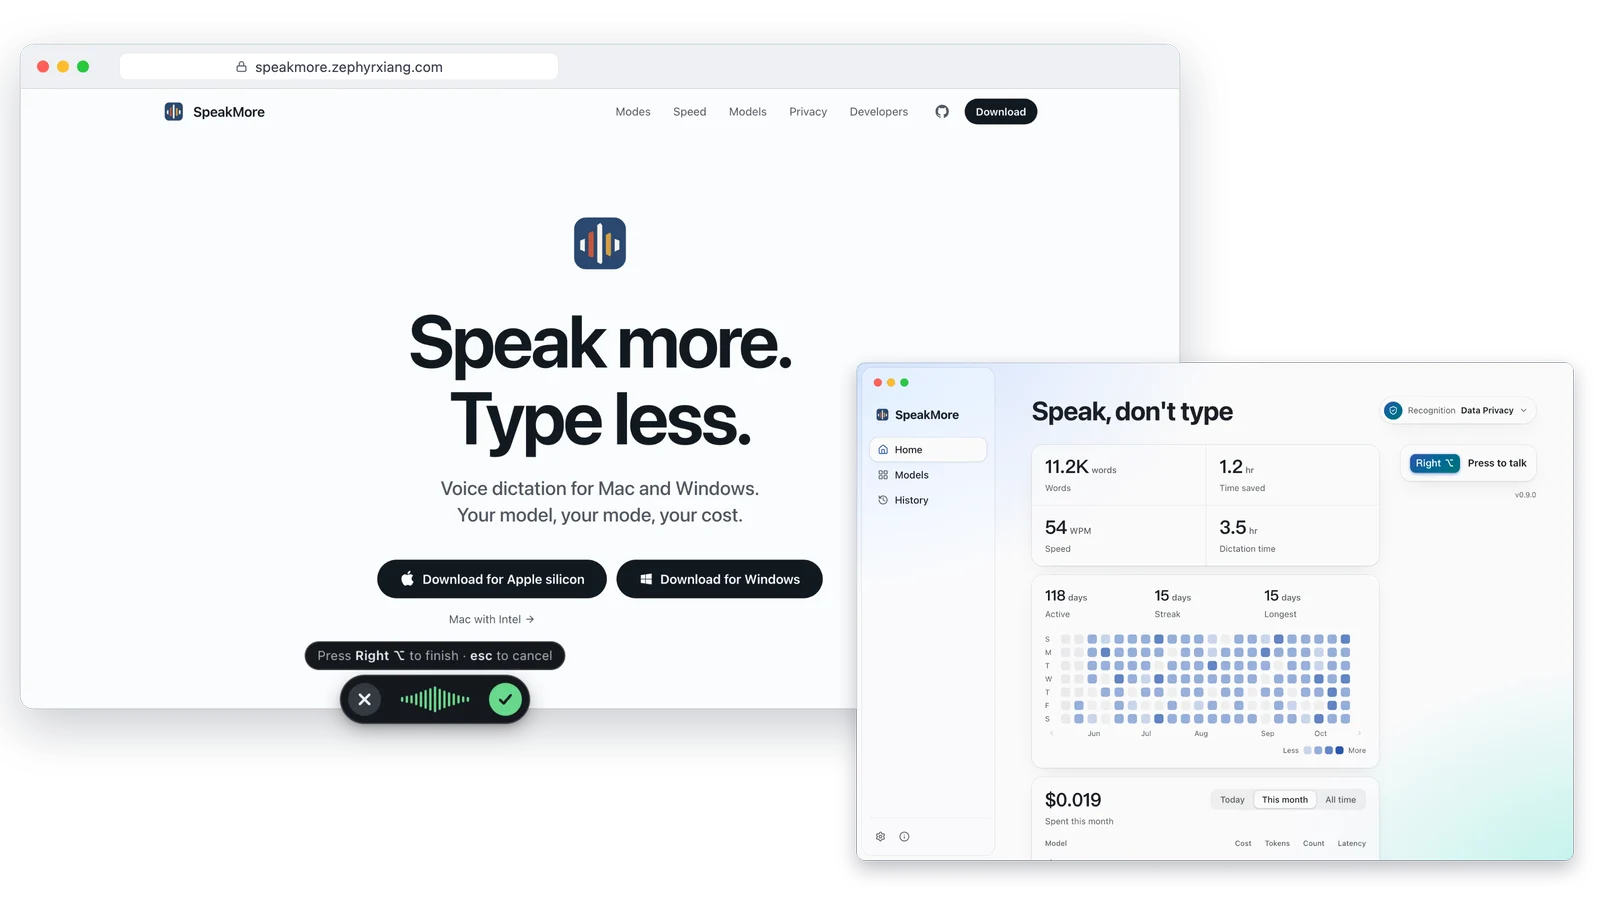
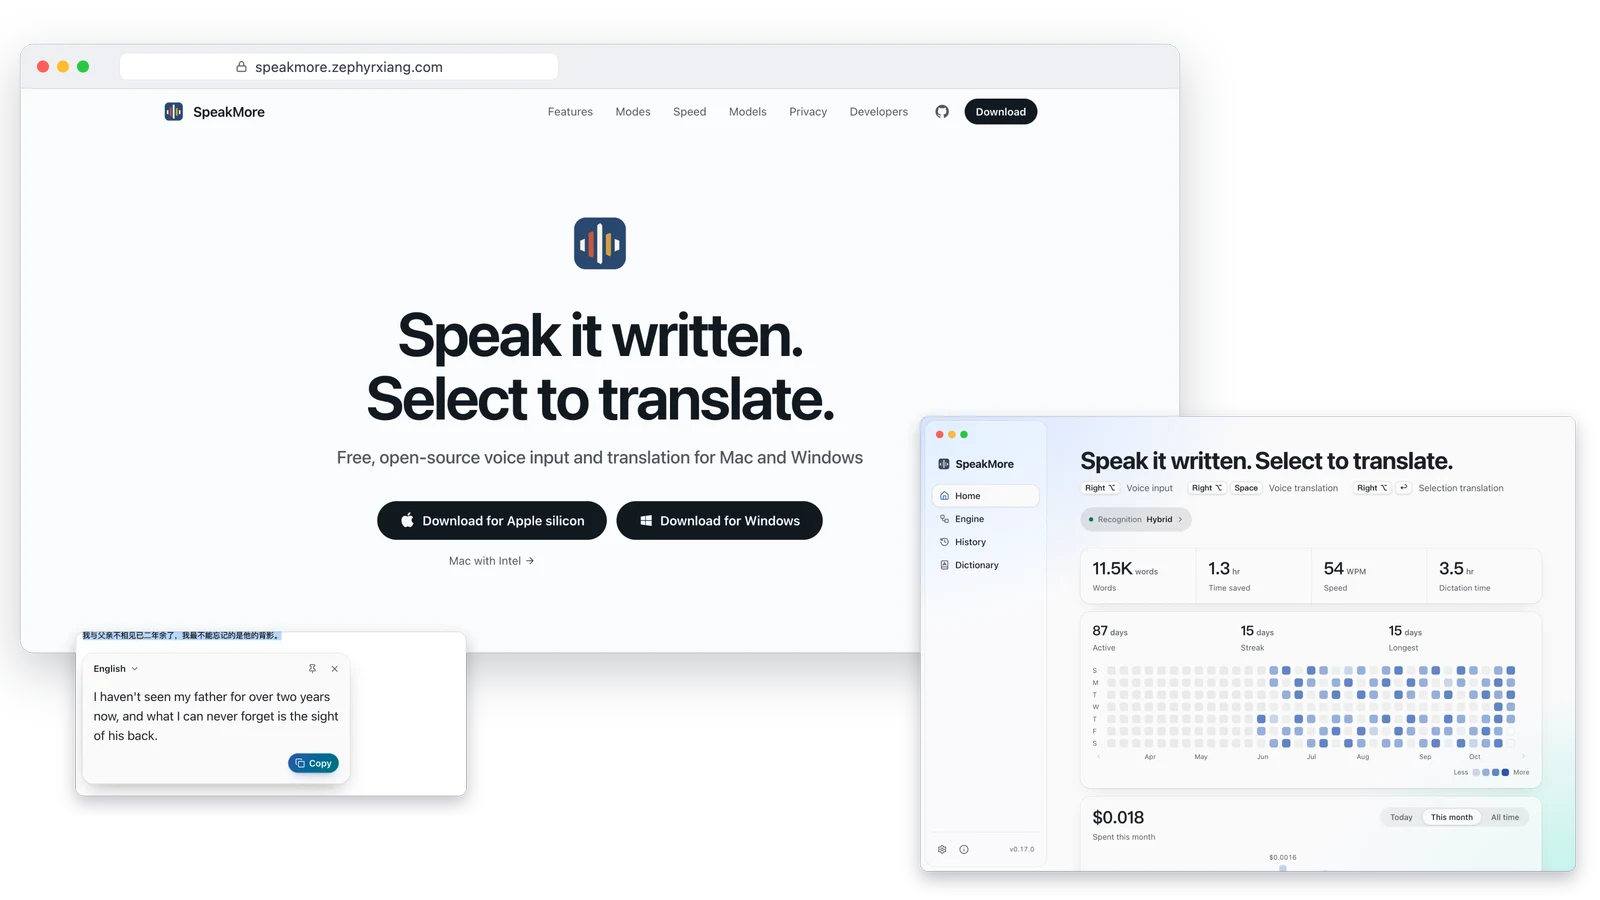
docs: SpeakMore 0.17 three-in-one — new tagline, features, showcase, 580+ downloads

diff --git a/README.md b/README.md
@@ -5,7 +5,7 @@
 
 - <img src="assets/icons/graduation-cap.svg" width="18" height="18" align="absmiddle" alt=""> **Tianjin University** — Artificial Intelligence · direct-admission MS
 - <img src="assets/icons/microscope.svg" width="18" height="18" align="absmiddle" alt=""> **Research** — Multi-Agent Systems · LLM Orchestration · Social Emergence
-- <img src="assets/icons/zap.svg" width="18" height="18" align="absmiddle" alt=""> **Tools** — Voice Dictation · Agent-Made Video · Automated Research
+- <img src="assets/icons/zap.svg" width="18" height="18" align="absmiddle" alt=""> **Tools** — Voice Input & Translation · Agent-Made Video · Automated Research
 - <img src="assets/icons/terminal.svg" width="18" height="18" align="absmiddle" alt=""> **Power User** — <img src="assets/icons/claude-code.svg" width="22" height="14" align="absmiddle" alt=""> Claude Code · <img src="assets/icons/codex.svg" width="18" height="18" align="absmiddle" alt=""> Codex
 - <img src="assets/icons/briefcase.svg" width="18" height="18" align="absmiddle" alt=""> **Technical Advisor** @ Turing Synergy — iOS App Development · Multi-Product Builder · Cutting-Edge Collaboration Models
 - <img src="assets/icons/map-pin.svg" width="18" height="18" align="absmiddle" alt=""> **Based in** Tianjin, China · UTC+8
@@ -20,7 +20,7 @@
 <tr>
 <td width="50%" valign="top">
 
-<a href="https://speakmore.zephyrxiang.com"><img src="assets/speakmore-showcase.webp" width="100%" alt="SpeakMore website, with the Mac app and the dictation bar in front"></a>
+<a href="https://speakmore.zephyrxiang.com"><img src="assets/speakmore-showcase.webp" width="100%" alt="SpeakMore website, with the Mac app and a selection-translation card in front"></a>
 
 <h3><img src="assets/icons/speakmore.svg" width="22" height="22" align="absmiddle" alt=""> <a href="https://github.com/zephyr4123/speakmore">SpeakMore</a></h3>
 
@@ -28,14 +28,15 @@
 
 [![stars](https://img.shields.io/github/stars/zephyr4123/speakmore?style=flat-square&logo=github&logoColor=white&label=stars&color=EAB308)](https://github.com/zephyr4123/speakmore/stargazers)
 [![forks](https://img.shields.io/github/forks/zephyr4123/speakmore?style=flat-square&logo=github&logoColor=white&label=forks&color=8B5CF6)](https://github.com/zephyr4123/speakmore/forks)
-[![downloads](https://img.shields.io/badge/downloads-370%2B-10B981?style=flat-square)](https://speakmore.zephyrxiang.com)
+[![downloads](https://img.shields.io/badge/downloads-580%2B-10B981?style=flat-square)](https://speakmore.zephyrxiang.com)
 
-**Speak, don't type.**<br>
-Voice dictation · Mac & Windows apps
+**Speak it written. Select to translate.**<br>
+Free & open source · Mac & Windows apps
 
-- 29 models, or fully on-device
-- Fillers & self-corrections removed
-- Free · MIT
+- **Voice input** · fillers & slips removed
+- **Voice translation** · 16 languages
+- **Selection translation** · any app
+- 29 voice models, or fully on-device
 
 </td>
 <td width="50%" valign="top">
